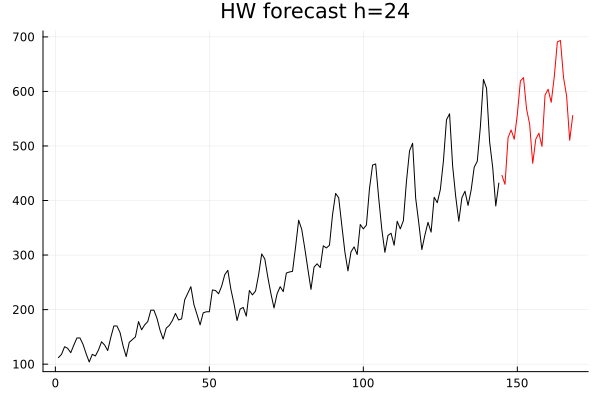
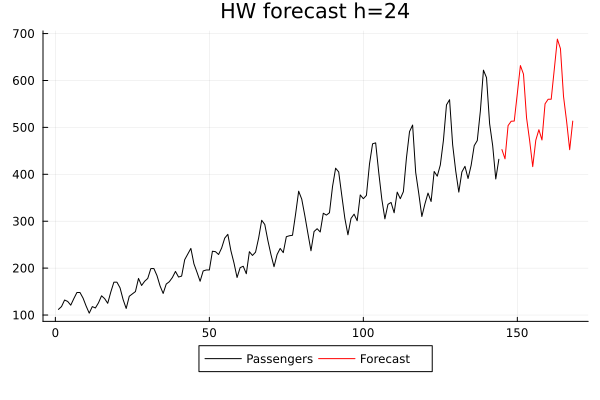
bug fix holtWinters

diff --git a/docs/src/man/start.md b/docs/src/man/start.md
@@ -124,8 +124,8 @@ plot([data D1 residual], layout = (5, 1), ylabel = ["y" "level" "slope" "season"
 The damping factor ``\varphi`` can be typed in julia with the keyboard as follows: \varphi`<tab>`
 ``` Julia
 
-# Forecast horizon h = 24 and damping factor \varphi = 0.95
-f2, D2, p2 = holtWinters(data, seasons, h=24, model=:mul, φ = 0.95)
+# Forecast horizon h = 24 and damping factor \varphi = 1
+f2, D2, p2 = holtWinters(data, seasons, h=24, model=:mul, φ = 1)
 
 n = length(data)
 steps = (n+1):(n+24)
